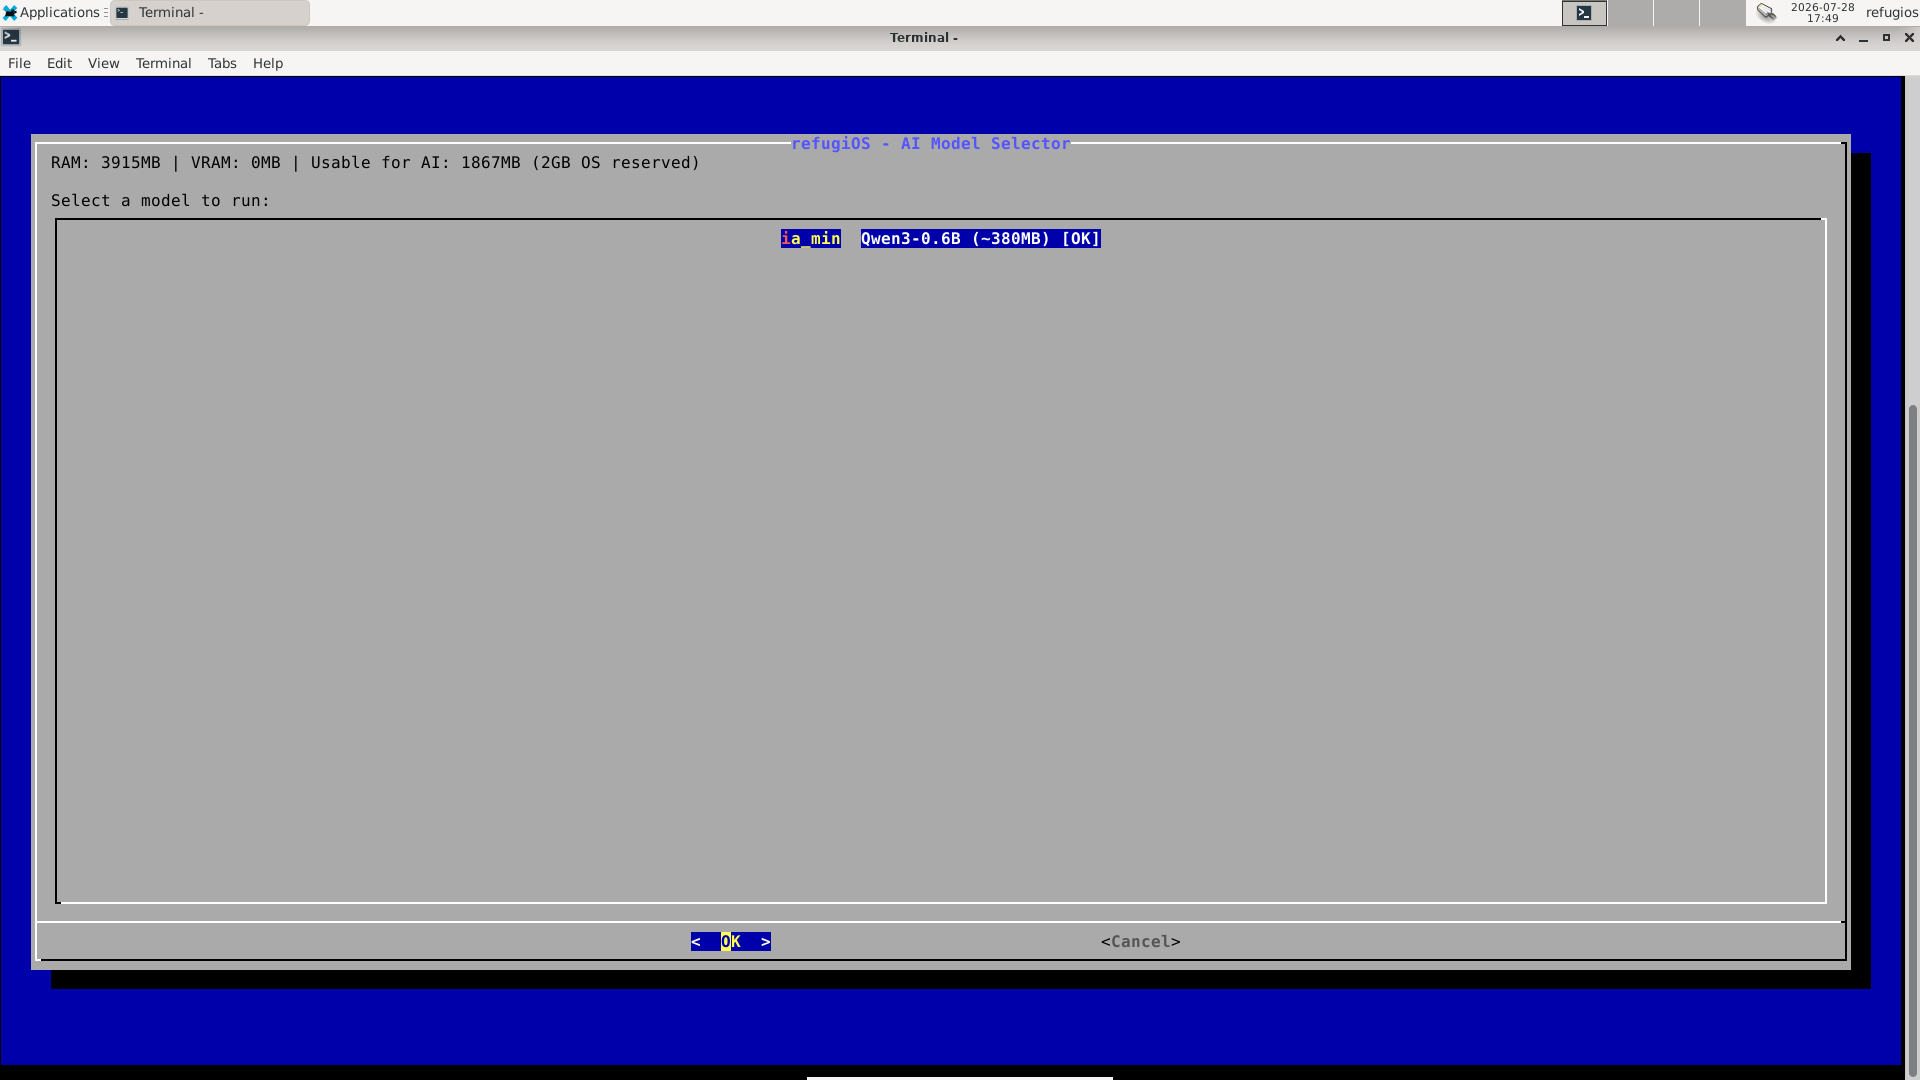
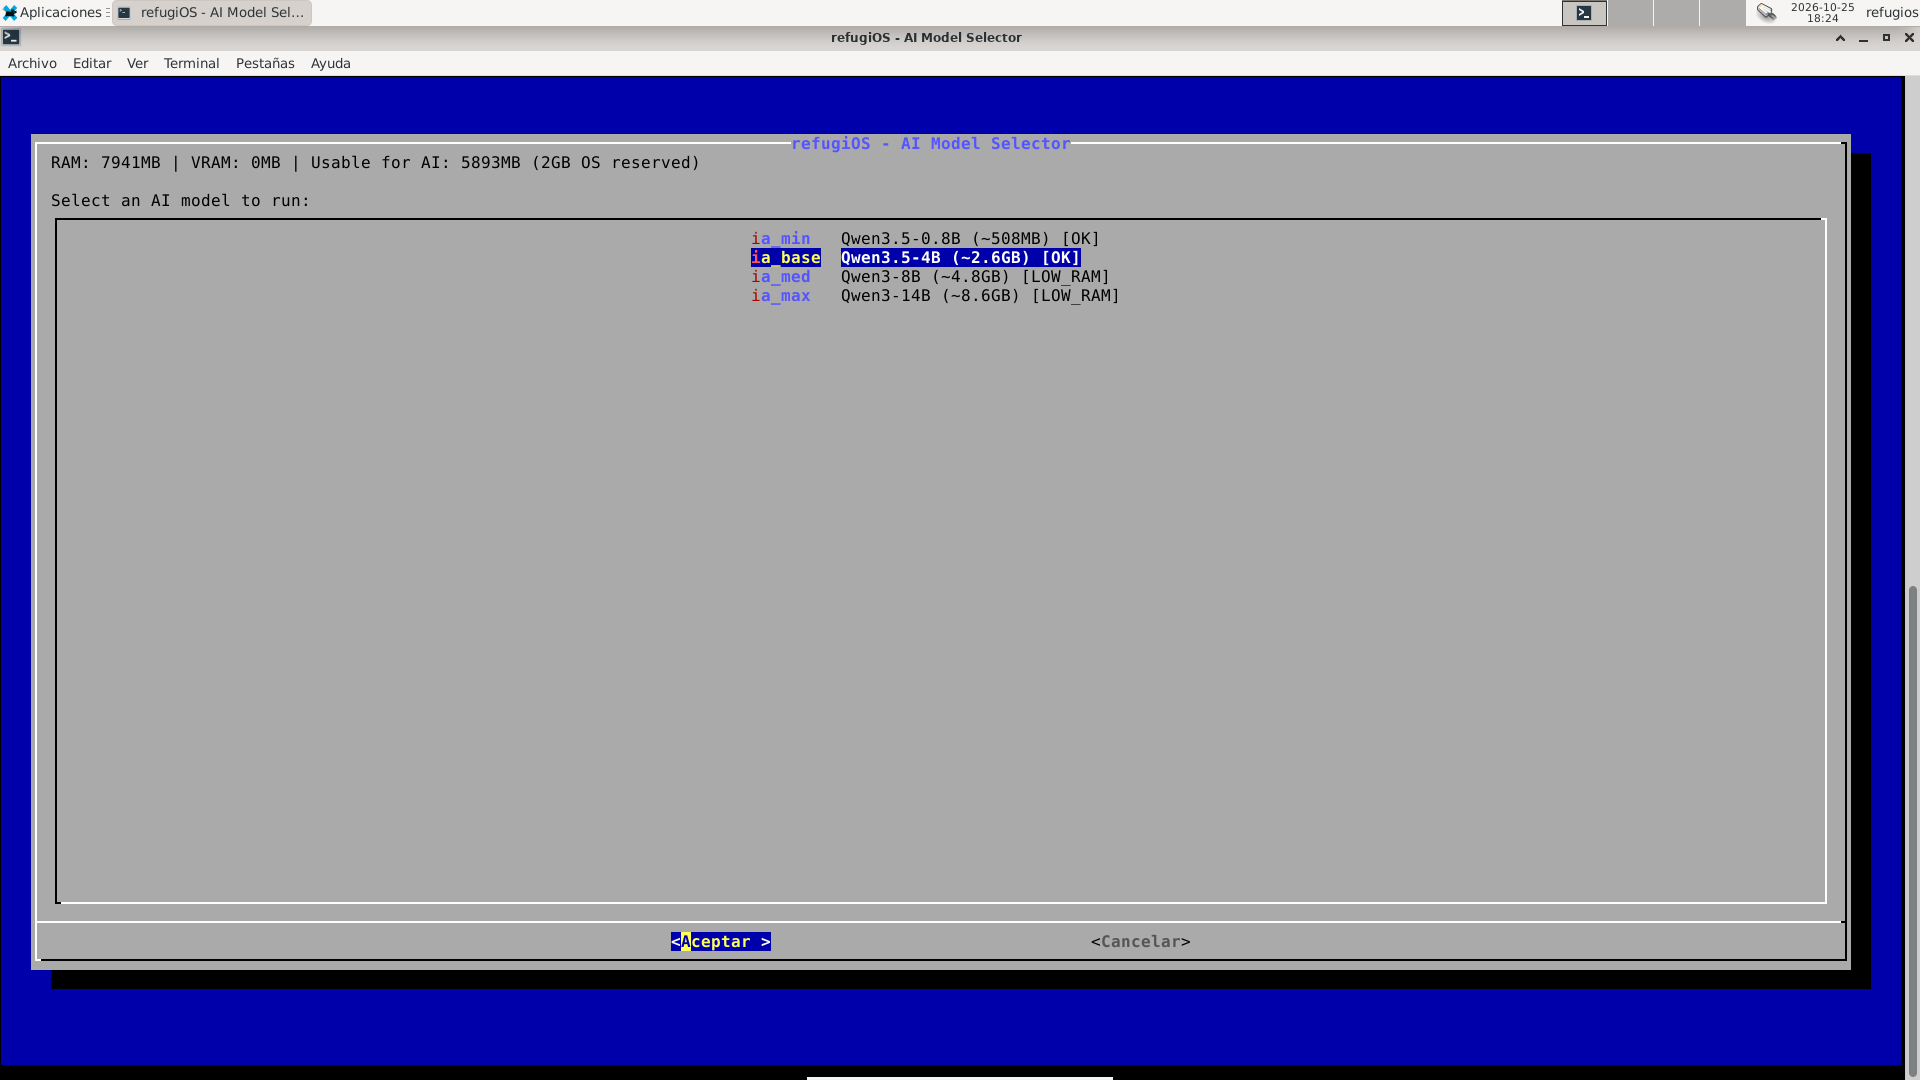
docs(screenshots): refresh outdated v0.27 installer, welcome and AI screens
- Update 01 welcome popups (ES and EN) with timezone configuration instructions using valid Pango markup (<tt>)
- Update 04 installer Wikipedia screens to reflect current 5 tiers
- Update 05 installer additional knowledge screens with categorized practical library
- Update 06 installer offline map screens with Organic Maps region presets
- Update 07 installer AI models screen with modern Qwen3.5 model catalog
- Update 15 AI selector screens to showcase multi-model registry, usable RAM detection, OS safety reserve and [OK]/[LOW_RAM] status
- Update media/screenshots/README.md descriptions

diff --git a/media/screenshots/README.md b/media/screenshots/README.md
@@ -31,12 +31,12 @@ para arrancar y `qemu_ctl.py` para navegar y capturar.
 
 | # | Qué muestra | 🇪🇸 Español | 🇬🇧🇺🇸 English |
 | :--- | :--- | :--- | :--- |
-| 01 | Mensaje de bienvenida del primer arranque, con el tamaño real del dispositivo. | [es/01_bienvenida.png](es/01_bienvenida.png) | [en/01_welcome.png](en/01_welcome.png) |
+| 01 | Mensaje de bienvenida del primer arranque, con el tamaño real del dispositivo e instrucciones de configuración. | [es/01_bienvenida.png](es/01_bienvenida.png) | [en/01_welcome.png](en/01_welcome.png) |
 | 02 | Instalador: elección de idioma, preseleccionado según el sistema. | [es/02_instalador_idioma.png](es/02_instalador_idioma.png) | [en/02_installer_language.png](en/02_installer_language.png) |
 | 03 | Instalador: diagnóstico del equipo (RAM, disco, GPU) que condiciona las opciones ofrecidas. | [es/03_instalador_diagnostico.png](es/03_instalador_diagnostico.png) | [en/03_installer_diagnostics.png](en/03_installer_diagnostics.png) |
-| 04 | Instalador: elección de la edición de Wikipedia, de 73 MB a 38 GB. | [es/04_instalador_wikipedia.png](es/04_instalador_wikipedia.png) | [en/04_installer_wikipedia.png](en/04_installer_wikipedia.png) |
-| 05 | Instalador: bases de conocimiento adicionales (WikiMed, WikiHow). | [es/05_instalador_otras_wikis.png](es/05_instalador_otras_wikis.png) | [en/05_installer_other_wikis.png](en/05_installer_other_wikis.png) |
-| 06 | Instalador: módulo de cartografía offline con Organic Maps. | [es/06_instalador_mapas.png](es/06_instalador_mapas.png) | [en/06_installer_maps.png](en/06_installer_maps.png) |
+| 04 | Instalador: elección de la edición de Wikipedia, entre 5 niveles (de ligera a total). | [es/04_instalador_wikipedia.png](es/04_instalador_wikipedia.png) | [en/04_installer_wikipedia.png](en/04_installer_wikipedia.png) |
+| 05 | Instalador: biblioteca de conocimiento práctico y reparaciones (iFixit, Appropedia, energía...). | [es/05_instalador_otras_wikis.png](es/05_instalador_otras_wikis.png) | [en/05_installer_other_wikis.png](en/05_installer_other_wikis.png) |
+| 06 | Instalador: selección de regiones y países para cartografía offline en Organic Maps. | [es/06_instalador_mapas.png](es/06_instalador_mapas.png) | [en/06_installer_maps.png](en/06_installer_maps.png) |
 | 07 | Instalador: modelos de IA local, con el aviso de RAM necesaria para cada uno. | [es/07_instalador_ia.png](es/07_instalador_ia.png) | [en/07_installer_ai.png](en/07_installer_ai.png) |
 | 08 | Instalador: confirmación final con el espacio estimado. | [es/08_instalador_confirmacion.png](es/08_instalador_confirmacion.png) | [en/08_installer_confirmation.png](en/08_installer_confirmation.png) |
 | 09 | Instalador: resumen al terminar, con el espacio realmente ocupado. | [es/09_instalador_completado.png](es/09_instalador_completado.png) | [en/09_installer_finished.png](en/09_installer_finished.png) |
@@ -45,7 +45,7 @@ para arrancar y `qemu_ctl.py` para navegar y capturar.
 | 12 | Wikipedia offline: un artículo completo, sin conexión a Internet. | [es/12_wikipedia_articulo.png](es/12_wikipedia_articulo.png) | [en/12_wikipedia_article.png](en/12_wikipedia_article.png) |
 | 13 | Organic Maps: mapamundi vectorial listo para descargar regiones. | [es/13_mapas_mundo.png](es/13_mapas_mundo.png) | [en/13_maps_world.png](en/13_maps_world.png) |
 | 14 | Organic Maps: detalle con carreteras y topónimos en el idioma del sistema. | [es/14_mapas_detalle.png](es/14_mapas_detalle.png) | [en/14_maps_detail.png](en/14_maps_detail.png) |
-| 15 | Selector de IA local: muestra la RAM utilizable y qué modelos caben. | [es/15_ia_selector.png](es/15_ia_selector.png) | [en/15_ai_selector.png](en/15_ai_selector.png) |
+| 15 | Selector de IA local: detección de RAM utilizable, reserva de seguridad del SO y estado [OK]/[LOW_RAM]. | [es/15_ia_selector.png](es/15_ia_selector.png) | [en/15_ai_selector.png](en/15_ai_selector.png) |
 | 16 | IA local respondiendo sin conexión, con el recuento de tokens y la velocidad. | [es/16_ia_chat.png](es/16_ia_chat.png) | [en/16_ai_chat.png](en/16_ai_chat.png) |
 | 17 | Gestor de bóvedas cifradas: menú principal. | [es/17_bovedas_menu.png](es/17_bovedas_menu.png) | [en/17_vaults_menu.png](en/17_vaults_menu.png) |
 | 18 | Creación de una bóveda LUKS: la contraseña se pide dos veces para evitar erratas irreversibles. | [es/18_bovedas_creacion.png](es/18_bovedas_creacion.png) | [en/18_vault_creation.png](en/18_vault_creation.png) |
@@ -83,12 +83,12 @@ The whole walkthrough was driven with the tools of the
 
 | # | What it shows | 🇪🇸 Spanish | 🇬🇧🇺🇸 English |
 | :--- | :--- | :--- | :--- |
-| 01 | First-boot welcome message, showing the real device size. | [es/01_bienvenida.png](es/01_bienvenida.png) | [en/01_welcome.png](en/01_welcome.png) |
+| 01 | First-boot welcome message, showing device size and initial setup steps. | [es/01_bienvenida.png](es/01_bienvenida.png) | [en/01_welcome.png](en/01_welcome.png) |
 | 02 | Installer: language choice, preselected from the system. | [es/02_instalador_idioma.png](es/02_instalador_idioma.png) | [en/02_installer_language.png](en/02_installer_language.png) |
 | 03 | Installer: hardware diagnosis (RAM, disk, GPU) that shapes the options offered. | [es/03_instalador_diagnostico.png](es/03_instalador_diagnostico.png) | [en/03_installer_diagnostics.png](en/03_installer_diagnostics.png) |
-| 04 | Installer: choice of Wikipedia edition, from 73 MB to 38 GB. | [es/04_instalador_wikipedia.png](es/04_instalador_wikipedia.png) | [en/04_installer_wikipedia.png](en/04_installer_wikipedia.png) |
-| 05 | Installer: additional knowledge bases (WikiMed, WikiHow). | [es/05_instalador_otras_wikis.png](es/05_instalador_otras_wikis.png) | [en/05_installer_other_wikis.png](en/05_installer_other_wikis.png) |
-| 06 | Installer: offline cartography module with Organic Maps. | [es/06_instalador_mapas.png](es/06_instalador_mapas.png) | [en/06_installer_maps.png](en/06_installer_maps.png) |
+| 04 | Installer: choice of Wikipedia edition, across 5 tiers (from lite to complete). | [es/04_instalador_wikipedia.png](es/04_instalador_wikipedia.png) | [en/04_installer_wikipedia.png](en/04_installer_wikipedia.png) |
+| 05 | Installer: practical knowledge and repair library (iFixit, Appropedia, energy...). | [es/05_instalador_otras_wikis.png](es/05_instalador_otras_wikis.png) | [en/05_installer_other_wikis.png](en/05_installer_other_wikis.png) |
+| 06 | Installer: region and country selection for offline cartography in Organic Maps. | [es/06_instalador_mapas.png](es/06_instalador_mapas.png) | [en/06_installer_maps.png](en/06_installer_maps.png) |
 | 07 | Installer: local AI models, each with its RAM requirement. | [es/07_instalador_ia.png](es/07_instalador_ia.png) | [en/07_installer_ai.png](en/07_installer_ai.png) |
 | 08 | Installer: final confirmation with the estimated space. | [es/08_instalador_confirmacion.png](es/08_instalador_confirmacion.png) | [en/08_installer_confirmation.png](en/08_installer_confirmation.png) |
 | 09 | Installer: summary on completion, with the space actually used. | [es/09_instalador_completado.png](es/09_instalador_completado.png) | [en/09_installer_finished.png](en/09_installer_finished.png) |
@@ -97,7 +97,7 @@ The whole walkthrough was driven with the tools of the
 | 12 | Offline Wikipedia: a full article, with no Internet connection. | [es/12_wikipedia_articulo.png](es/12_wikipedia_articulo.png) | [en/12_wikipedia_article.png](en/12_wikipedia_article.png) |
 | 13 | Organic Maps: vector world map, ready to download regions. | [es/13_mapas_mundo.png](es/13_mapas_mundo.png) | [en/13_maps_world.png](en/13_maps_world.png) |
 | 14 | Organic Maps: detail with roads and place names in the system language. | [es/14_mapas_detalle.png](es/14_mapas_detalle.png) | [en/14_maps_detail.png](en/14_maps_detail.png) |
-| 15 | Local AI selector: shows usable RAM and which models fit. | [es/15_ia_selector.png](es/15_ia_selector.png) | [en/15_ai_selector.png](en/15_ai_selector.png) |
+| 15 | Local AI selector: usable RAM detection, OS safety reserve and [OK]/[LOW_RAM] status. | [es/15_ia_selector.png](es/15_ia_selector.png) | [en/15_ai_selector.png](en/15_ai_selector.png) |
 | 16 | Local AI answering offline, with token count and speed. | [es/16_ia_chat.png](es/16_ia_chat.png) | [en/16_ai_chat.png](en/16_ai_chat.png) |
 | 17 | Encrypted vault manager: main menu. | [es/17_bovedas_menu.png](es/17_bovedas_menu.png) | [en/17_vaults_menu.png](en/17_vaults_menu.png) |
 | 18 | Creating a LUKS vault: the password is asked twice to prevent an irreversible typo. | [es/18_bovedas_creacion.png](es/18_bovedas_creacion.png) | [en/18_vault_creation.png](en/18_vault_creation.png) |
